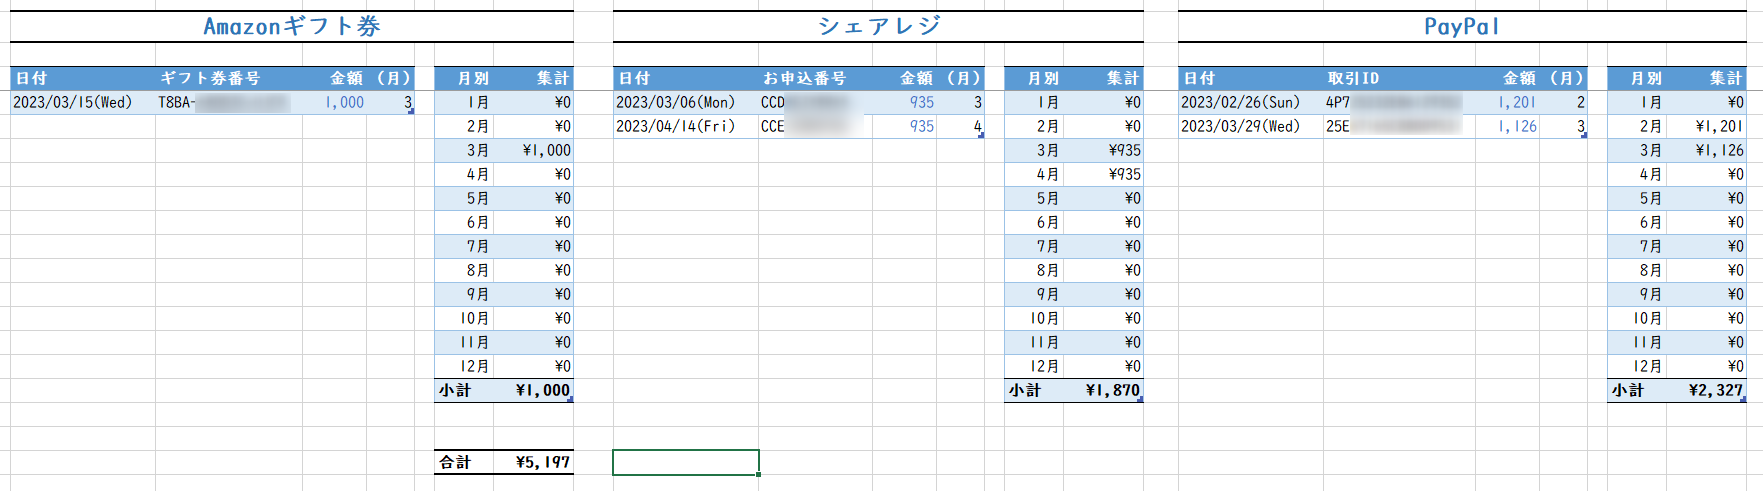
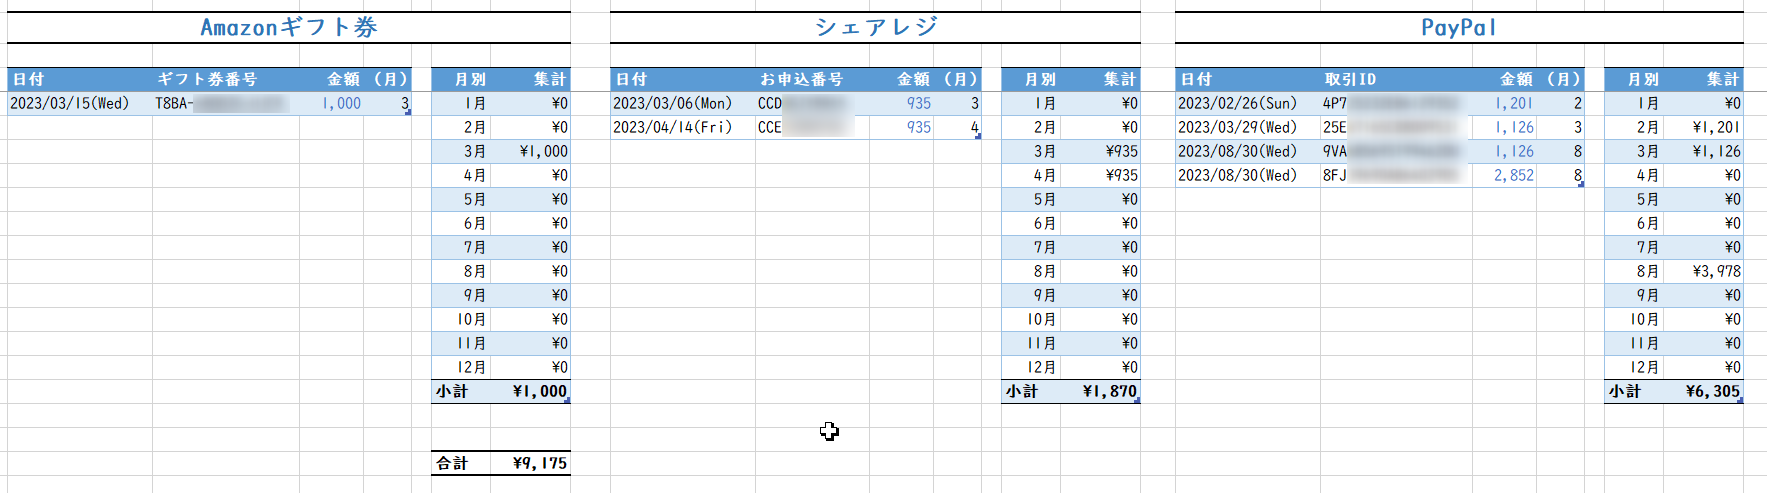
８月分の寄付を追加

Changed region(s): [[0.0, 0.1222, 1.0, 0.8248], [0.0, 0.8554, 1.0, 0.9776], [0.0, 0.0, 1.0, 0.0916]]

diff --git a/paster.htm b/paster.htm
@@ -523,7 +523,7 @@
 			<section class="content">
 				<h3 id="donation" class="heading">ドネーションウェアについて</h3>
 				<article class="grid" style="width:100%;">
-					<p><a href="images/paster_donation_2023.png" target="_blank">2023年（７月分まで）のご寄付</a> ／
+					<p><a href="images/paster_donation_2023.png" target="_blank">2023年（8月分まで）のご寄付</a> ／
 						<a href="images/paster_donation_2022.png" target="_blank">2022年のご寄付</a> ／<br>
 					</p>
 
